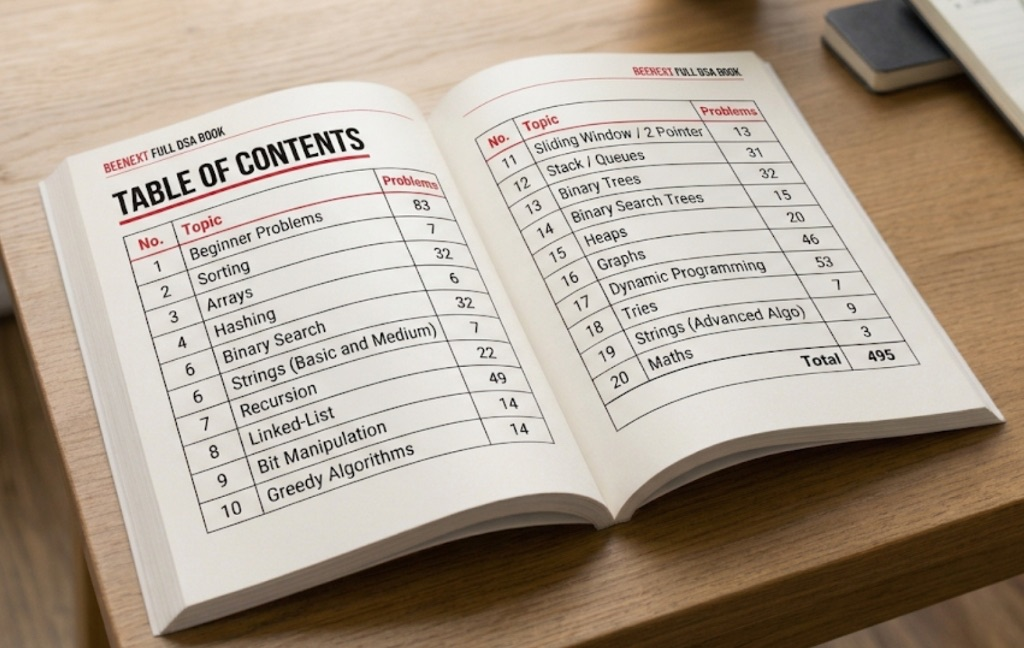
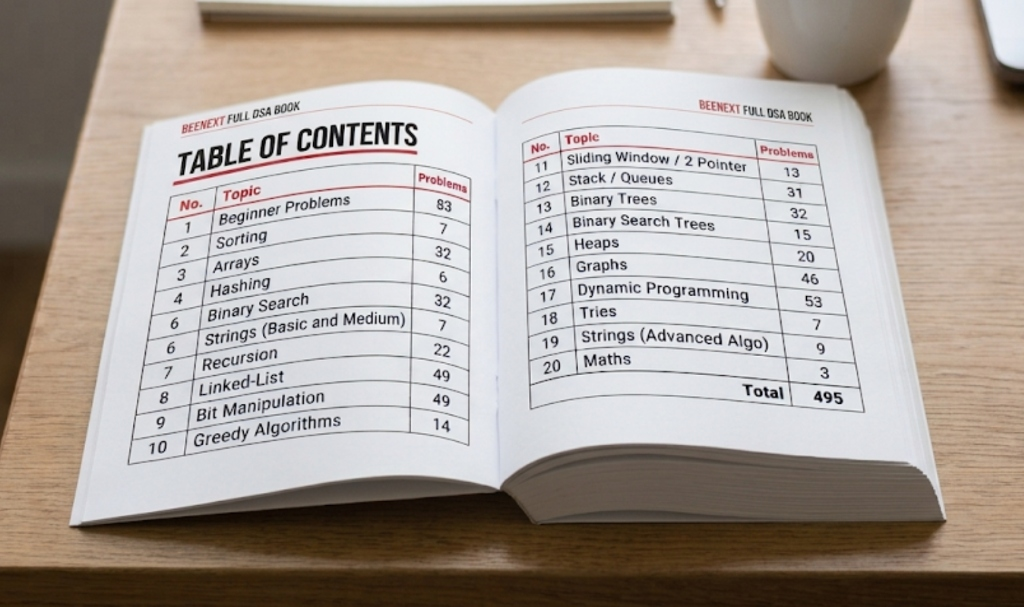
d

diff --git a/src/app/purchase/page.tsx b/src/app/purchase/page.tsx
@@ -1,6 +1,7 @@
 import React from "react";
 import prisma from "@/lib/prisma";
 import PurchaseClient from "@/components/PurchaseClient";
+import { unstable_cache } from "next/cache";
 
 export const dynamic = "force-dynamic";
 
@@ -8,69 +9,77 @@ interface PurchaseMainPageProps {
   searchParams?: { [key: string]: string | string[] | undefined };
 }
 
-export default async function PurchaseMainPage({ searchParams }: PurchaseMainPageProps) {
-  const [categories, printedConfig, fullBookOrders, ratingsRaw, allCompletedPrintedOrders] = await Promise.all([
-    prisma.category.findMany({
-      where: { isPublished: true },
-      orderBy: { order: "asc" },
-      select: {
-        id: true,
-        title: true,
-        slug: true,
-        order: true,
-        price: true,
-        description: true,
-        _count: {
-          select: { problems: true },
+const getPurchaseData = unstable_cache(
+  async () => {
+    return Promise.all([
+      prisma.category.findMany({
+        where: { isPublished: true },
+        orderBy: { order: "asc" },
+        select: {
+          id: true,
+          title: true,
+          slug: true,
+          order: true,
+          price: true,
+          description: true,
+          _count: {
+            select: { problems: true },
+          },
         },
-      },
-    }),
-    prisma.printedProductConfig.findUnique({
-      where: { id: "default" },
-      select: {
-        title: true,
-        description: true,
-        price: true,
-        originalPrice: true,
-      },
-    }),
-    prisma.printedOrder.findMany({
-      where: {
-        paymentMethod: { not: "TEST_MODE" },
-        orderNumber: { not: { contains: "TEST" } },
-        customerName: { not: { contains: "[TEST]" } },
-        orderStatus: { not: "CANCELLED" },
-        OR: [
-          { productTitle: { contains: "Book", mode: "insensitive" } },
-          { productTitle: { contains: "Complete", mode: "insensitive" } },
-        ],
-      },
-      select: {
-        language: true,
-        quantity: true,
-        productTitle: true,
-      },
-    }),
-    prisma.bookRating.groupBy({
-      by: ["language"],
-      _avg: { rating: true },
-      _count: { rating: true },
-    }),
-    prisma.printedOrder.findMany({
-      where: {
-        paymentStatus: "COMPLETED",
-        paymentMethod: { not: "TEST_MODE" },
-        orderNumber: { not: { contains: "TEST" } },
-        customerName: { not: { contains: "[TEST]" } },
-        orderStatus: { not: "CANCELLED" },
-      },
-      select: {
-        productTitle: true,
-        notes: true,
-        quantity: true,
-      },
-    }),
-  ]);
+      }),
+      prisma.printedProductConfig.findUnique({
+        where: { id: "default" },
+        select: {
+          title: true,
+          description: true,
+          price: true,
+          originalPrice: true,
+        },
+      }),
+      prisma.printedOrder.findMany({
+        where: {
+          paymentMethod: { not: "TEST_MODE" },
+          orderNumber: { not: { contains: "TEST" } },
+          customerName: { not: { contains: "[TEST]" } },
+          orderStatus: { not: "CANCELLED" },
+          OR: [
+            { productTitle: { contains: "Book", mode: "insensitive" } },
+            { productTitle: { contains: "Complete", mode: "insensitive" } },
+          ],
+        },
+        select: {
+          language: true,
+          quantity: true,
+          productTitle: true,
+        },
+      }),
+      prisma.bookRating.groupBy({
+        by: ["language"],
+        _avg: { rating: true },
+        _count: { rating: true },
+      }),
+      prisma.printedOrder.findMany({
+        where: {
+          paymentStatus: "COMPLETED",
+          paymentMethod: { not: "TEST_MODE" },
+          orderNumber: { not: { contains: "TEST" } },
+          customerName: { not: { contains: "[TEST]" } },
+          orderStatus: { not: "CANCELLED" },
+        },
+        select: {
+          productTitle: true,
+          notes: true,
+          quantity: true,
+        },
+      }),
+    ]);
+  },
+  ["purchase-page-data"],
+  { revalidate: 60, tags: ["purchase"] }
+);
+
+export default async function PurchaseMainPage({ searchParams }: PurchaseMainPageProps) {
+  const [categories, printedConfig, fullBookOrders, ratingsRaw, allCompletedPrintedOrders] = await getPurchaseData();
 
   const byLanguage: Record<string, number> = {
     C: 0,

diff --git a/src/components/TopicsClient.tsx b/src/components/TopicsClient.tsx
@@ -113,13 +113,13 @@ export default function TopicsClient({ initialCategories }: TopicsClientProps) {
               BEE<span className="text-brand-red">NEXT</span> – HERO TO INFINITY DSA SHEET
             </h1>
             <h2 className="text-base sm:text-lg font-bold text-white tracking-tight pt-1">
-              BeeNext&apos;s DSA Sheet
+              Sheet Details
             </h2>
             <p className="text-xs sm:text-sm text-neutral-300 font-normal leading-relaxed">
-              Prepare for technical interviews with BeeNext&apos;s carefully curated DSA Sheet, featuring problem-solving guidance from both <strong className="text-white font-semibold">Striver and Apna College</strong>. It focuses exclusively on interview-relevant problems and concepts — nothing unnecessary.
+              Prepare for technical interviews with BeeNext&apos;s carefully curated free DSA Sheet, featuring problem-solving guidance from Striver and Apna College. Developed in collaboration with senior faculty members of IIT Kharagpur, it focuses on interview-relevant problems and essential concepts, making quality DSA preparation accessible to every student.
             </p>
             <p className="text-xs sm:text-sm text-neutral-300 font-normal leading-relaxed">
-              Explore our topic-wise and complete DSA books, designed to help learners strengthen their problem-solving skills and prepare effectively for coding interviews. Each problem includes access to available video explanations from Striver and Apna College, helping you understand different approaches and improve your problem-solving skills.
+              Alongside our free DSA Sheet, visit the Purchase section to explore BeeNext&apos;s wide collection of books. Carefully researched and curated exclusively for coding interviews, our books cover important problems and concepts to strengthen problem-solving skills and help professionals prepare effectively for technical interviews.
             </p>
             <p className="text-xs sm:text-sm font-bold text-white tracking-wide pt-1">
               Learn what matters. Skip what doesn&apos;t.
@@ -213,11 +213,10 @@ export default function TopicsClient({ initialCategories }: TopicsClientProps) {
               return (
                 <div
                   key={index}
-                  className={`flex-1 aspect-square rounded-[2px] transition-colors duration-200 ${
-                    isCompleted
-                      ? "bg-[#16a34a] border border-[#16a34a]"
-                      : "bg-transparent border border-emerald-500/40"
-                  }`}
+                  className={`flex-1 aspect-square rounded-[2px] transition-colors duration-200 ${isCompleted
+                    ? "bg-[#16a34a] border border-[#16a34a]"
+                    : "bg-transparent border border-emerald-500/40"
+                    }`}
                   style={{ aspectRatio: "1 / 1" }}
                   title={
                     isCompleted

diff --git a/src/app/topics/[slug]/page.tsx b/src/app/topics/[slug]/page.tsx
@@ -2,6 +2,7 @@ import React from "react";
 import { notFound } from "next/navigation";
 import prisma from "@/lib/prisma";
 import CategoryDetailClient from "@/components/CategoryDetailClient";
+import { unstable_cache } from "next/cache";
 
 export const dynamic = "force-dynamic";
 
@@ -11,23 +12,50 @@ interface CategoryPageProps {
   };
 }
 
+const getCachedCategory = unstable_cache(
+  async (slug: string, isSorting: boolean) => {
+    return prisma.category.findFirst({
+      where: isSorting
+        ? { OR: [{ slug: "sorting" }, { slug: "sorting-techniques" }] }
+        : { slug },
+      select: {
+        id: true,
+        title: true,
+        slug: true,
+        description: true,
+        isFree: true,
+        price: true,
+        order: true,
+        problems: {
+          where: { isPublished: true },
+          orderBy: { order: "asc" },
+          select: {
+            id: true,
+            title: true,
+            slug: true,
+            difficulty: true,
+            order: true,
+            isFree: true,
+            price: true,
+            leetcodeUrl: true,
+            youtubeUrl: true,
+            apnaYoutubeUrl: true,
+          },
+        },
+      },
+    });
+  },
+  ["category-detail-by-slug"],
+  { revalidate: 60, tags: ["categories"] }
+);
+
 export default async function CategoryPage({ params }: CategoryPageProps) {
   const { slug } = params;
 
   // Handle both "sorting" and "sorting-techniques" alias
   const isSorting = slug === "sorting" || slug === "sorting-techniques";
 
-  const category = await prisma.category.findFirst({
-    where: isSorting
-      ? { OR: [{ slug: "sorting" }, { slug: "sorting-techniques" }] }
-      : { slug },
-    include: {
-      problems: {
-        where: { isPublished: true },
-        orderBy: { order: "asc" },
-      },
-    },
-  });
+  const category = await getCachedCategory(slug, isSorting);
 
   if (!category) {
     notFound();

diff --git a/src/app/topics/page.tsx b/src/app/topics/page.tsx
@@ -1,24 +1,50 @@
 import React from "react";
 import prisma from "@/lib/prisma";
 import TopicsClient from "@/components/TopicsClient";
+import { unstable_cache } from "next/cache";
 
 export const dynamic = "force-dynamic";
 
-export default async function TopicsPage() {
-  const categories = await prisma.category.findMany({
-    where: { isPublished: true },
-    orderBy: { order: "asc" },
-    include: {
-      problems: {
-        where: { isPublished: true },
-        orderBy: { order: "asc" },
-        include: {
-          _count: { select: { notes: true } },
+const getCachedCategories = unstable_cache(
+  async () => {
+    return prisma.category.findMany({
+      where: { isPublished: true },
+      orderBy: { order: "asc" },
+      select: {
+        id: true,
+        title: true,
+        slug: true,
+        description: true,
+        isFree: true,
+        price: true,
+        order: true,
+        _count: { select: { problems: true } },
+        problems: {
+          where: { isPublished: true },
+          orderBy: { order: "asc" },
+          select: {
+            id: true,
+            title: true,
+            slug: true,
+            difficulty: true,
+            order: true,
+            isFree: true,
+            price: true,
+            leetcodeUrl: true,
+            youtubeUrl: true,
+            apnaYoutubeUrl: true,
+            _count: { select: { notes: true } },
+          },
         },
       },
-      _count: { select: { problems: true } },
-    },
-  });
+    });
+  },
+  ["dsa-topics-categories-lean"],
+  { revalidate: 60, tags: ["categories"] }
+);
+
+export default async function TopicsPage() {
+  const categories = await getCachedCategories();
 
   return <TopicsClient initialCategories={categories as any} />;
 }

diff --git a/src/app/api/auth/me/route.ts b/src/app/api/auth/me/route.ts
@@ -1,13 +1,22 @@
 import { NextResponse } from "next/server";
-import { getCurrentUser } from "@/lib/auth";
+import { cookies } from "next/headers";
+import { verifyToken } from "@/lib/auth";
 import prisma from "@/lib/prisma";
 
 export const dynamic = "force-dynamic";
 
+const COOKIE_NAME = process.env.SESSION_COOKIE_NAME || "beenext_token";
+
 export async function GET() {
   try {
-    const session = await getCurrentUser();
-    if (!session) {
+    const cookieStore = cookies();
+    const token = cookieStore.get(COOKIE_NAME)?.value;
+    if (!token) {
+      return NextResponse.json({ user: null });
+    }
+
+    const session = verifyToken(token);
+    if (!session?.id) {
       return NextResponse.json({ user: null });
     }
 

diff --git a/src/app/layout.tsx b/src/app/layout.tsx
@@ -40,10 +40,14 @@ export const metadata: Metadata = {
     icon: [
       { url: "/favicon.ico", sizes: "any" },
       { url: "/icon.svg", type: "image/svg+xml" },
+      { url: "/icon-32.png", sizes: "32x32", type: "image/png" },
+      { url: "/icon-16.png", sizes: "16x16", type: "image/png" },
     ],
     apple: [
       { url: "/apple-icon.png", sizes: "180x180", type: "image/png" },
+      { url: "/apple-touch-icon.png", sizes: "180x180", type: "image/png" },
     ],
+    shortcut: "/favicon.ico",
   },
   openGraph: {
     title: "BeeNext - DSA Sheet",
